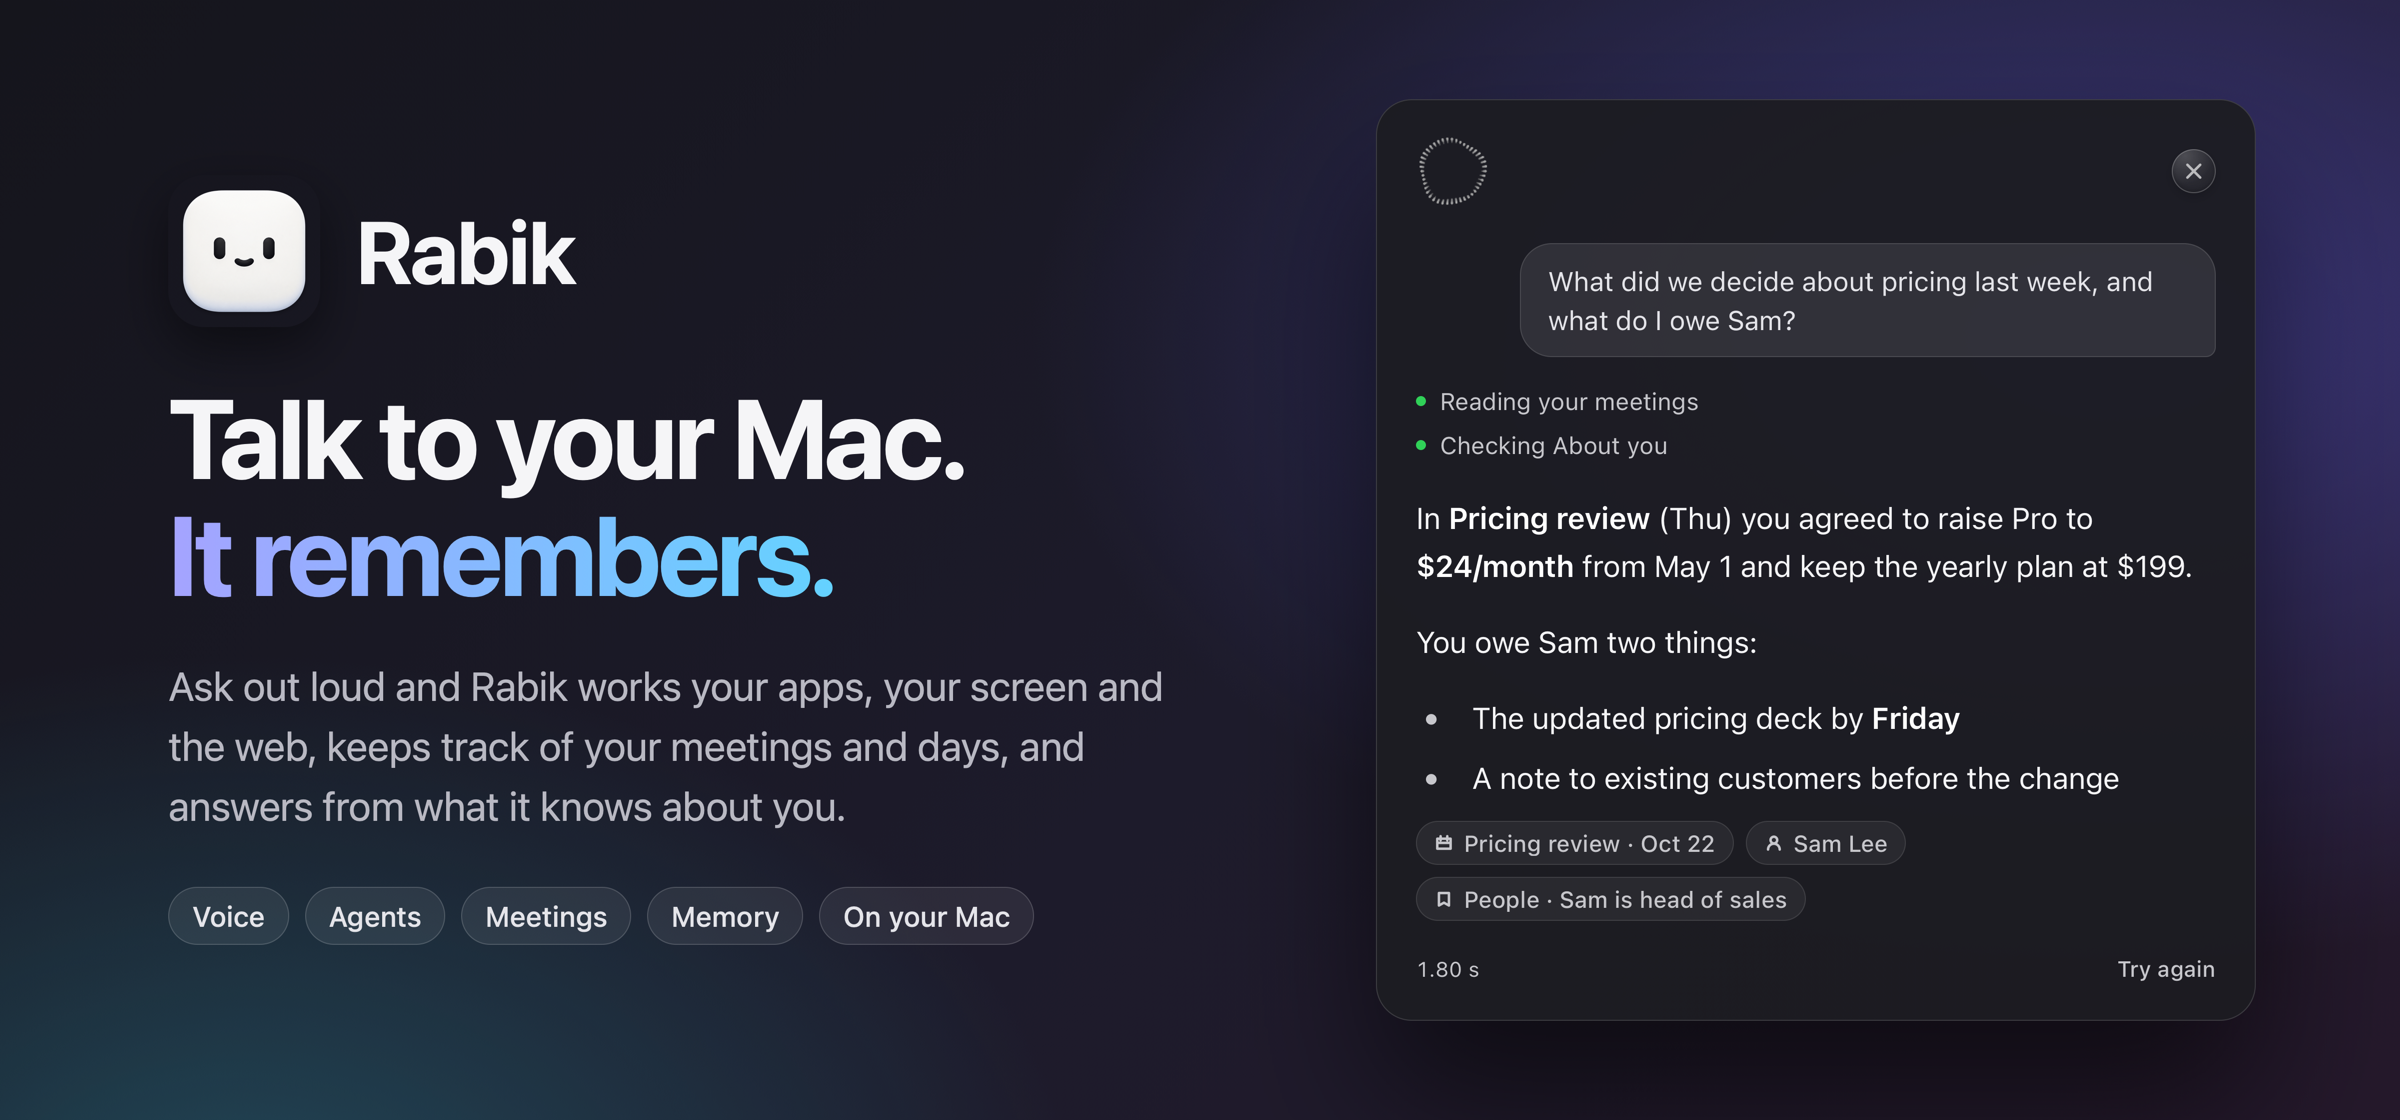
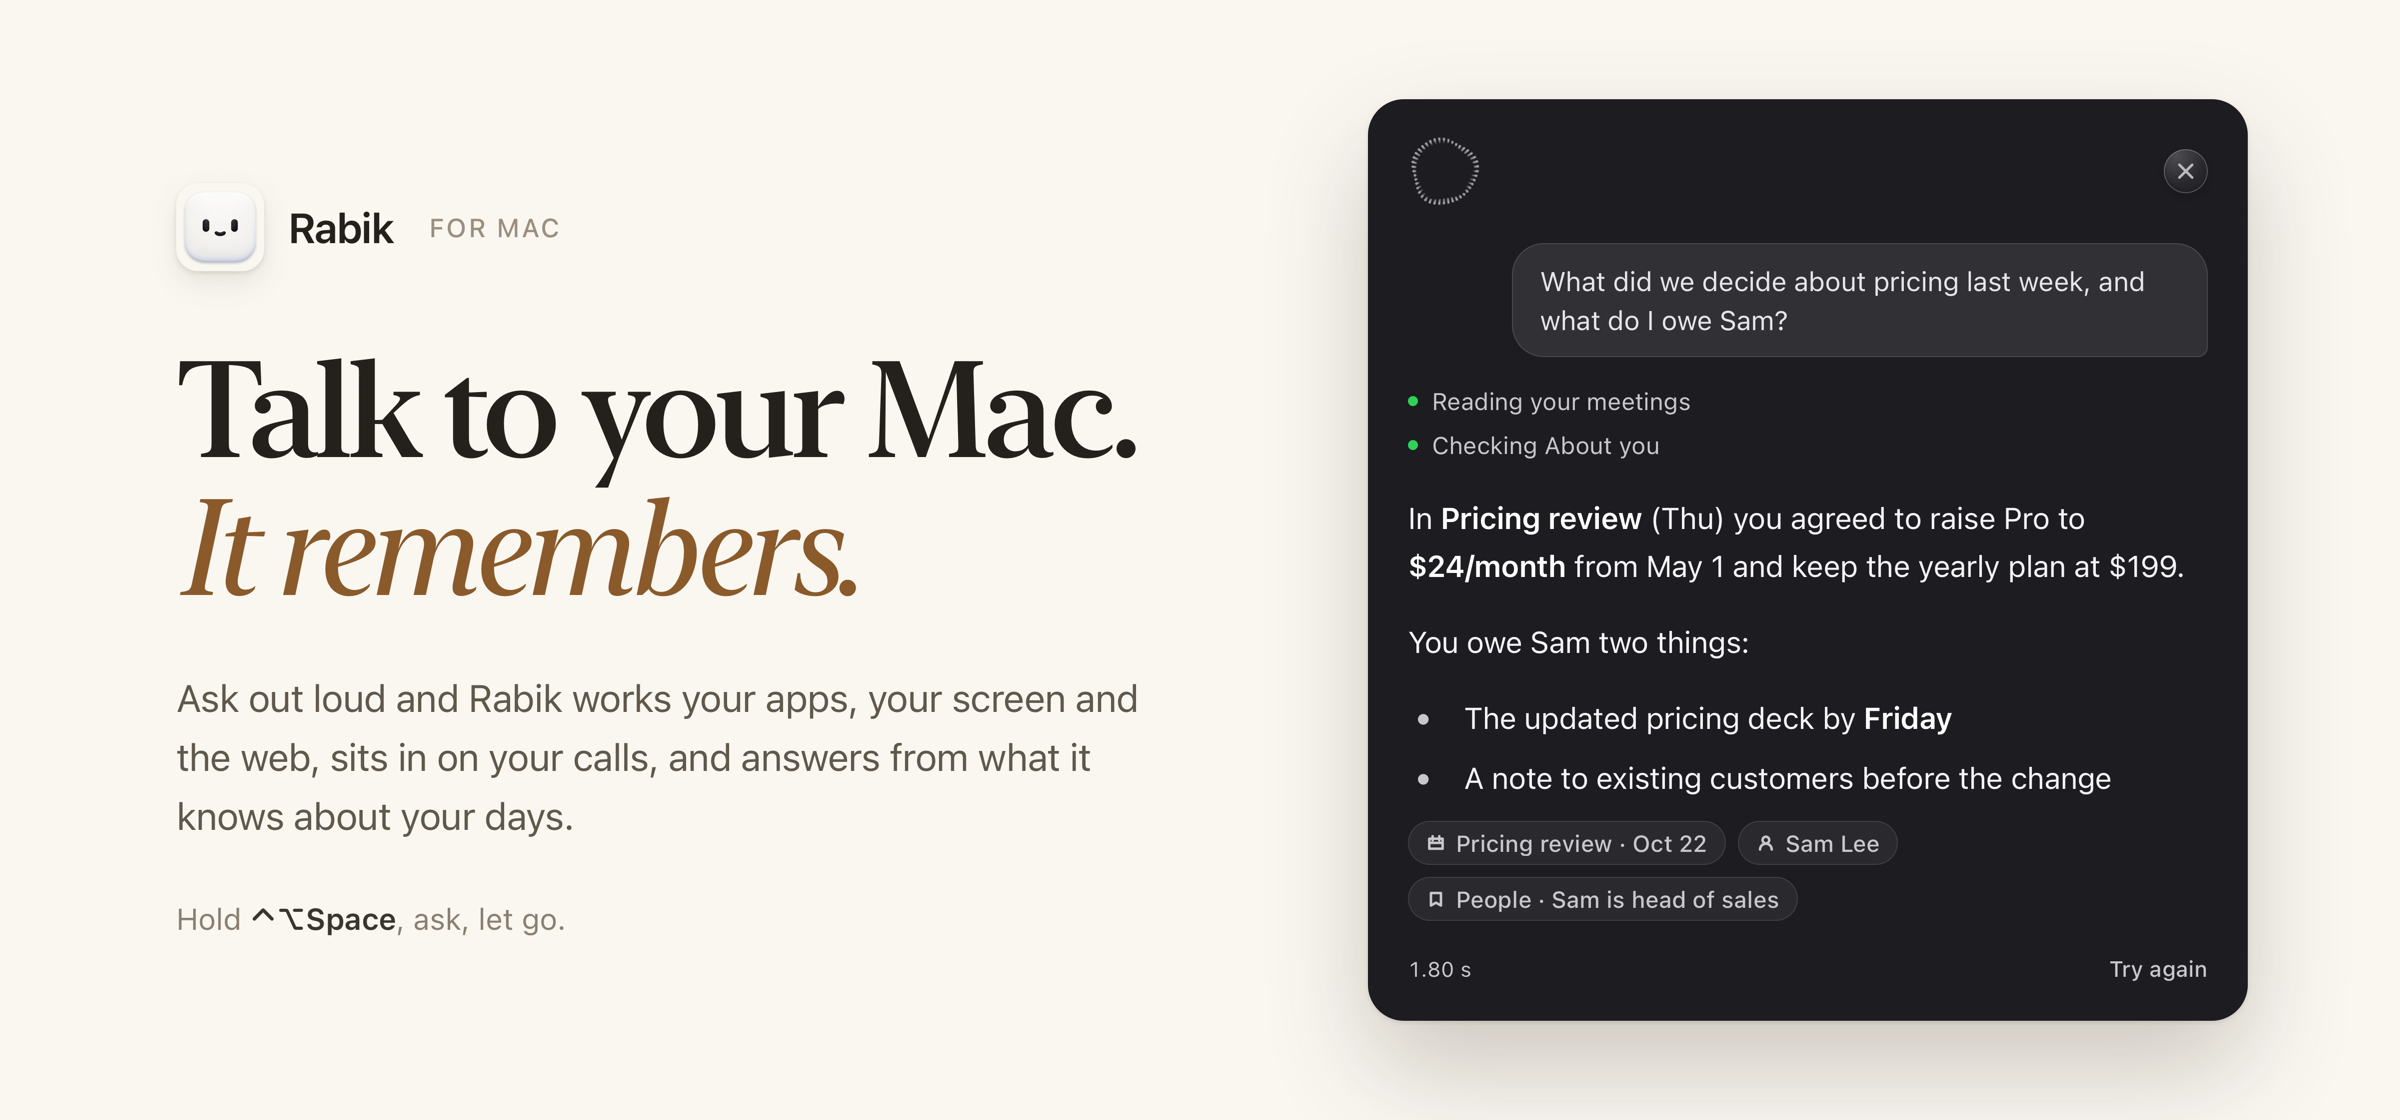
README images: warm paper instead of purple gradients
The hero is cream with Apple's New York serif headline and SF Pro text, and the screens sit on
the same flat cream with a soft warm shadow.

diff --git a/scripts/hero.html b/scripts/hero.html
@@ -1,30 +1,28 @@
 <!doctype html>
 <html lang="en"><meta charset="utf-8"><title>Rabik hero</title>
-<!-- The README's top image: scripts/readme-shots.py fills in the icon and a real box answer, then draws this page. -->
+<!-- The README's top image: scripts/readme-shots.py fills in the icon and a real box answer, then draws this page.
+     Warm paper, Apple's New York serif for the headline and SF Pro for the rest; no gradients. -->
 <style>
   html, body { margin: 0; width: 1200px; height: 560px; overflow: hidden; }
-  body { font-family: -apple-system, system-ui, sans-serif; color: #f5f5f7; display: grid; grid-template-columns: 1fr 470px; align-items: center; gap: 40px;
-         padding: 0 72px 0 84px; box-sizing: border-box;
-         background: radial-gradient(900px 520px at 88% 30%, rgba(94, 92, 230, .42), transparent 60%),
-                     radial-gradient(700px 480px at 10% 110%, rgba(48, 176, 199, .30), transparent 60%),
-                     linear-gradient(135deg, #15151c 0%, #1d1b2b 55%, #24182a 100%); }
-  .brand { display: flex; align-items: center; gap: 18px; margin-bottom: 26px; }
-  .brand img { width: 76px; height: 76px; border-radius: 18px; box-shadow: 0 10px 30px rgba(0, 0, 0, .45); }
-  .brand b { font-size: 44px; font-weight: 700; letter-spacing: -.02em; }
-  h1 { margin: 0; font-size: 56px; line-height: 1.04; font-weight: 700; letter-spacing: -.03em; }
-  h1 span { background: linear-gradient(90deg, #a5a3ff, #64d2ff); -webkit-background-clip: text; color: transparent; }
-  p { margin: 22px 0 0; font-size: 20px; line-height: 1.5; color: #b9b9c3; max-width: 520px; }
-  .tags { display: flex; gap: 8px; margin-top: 26px; flex-wrap: wrap; }
-  .tags i { font-style: normal; font-size: 14px; font-weight: 500; color: #e5e5ea; padding: 6px 12px; border-radius: 999px;
-            background: rgba(255, 255, 255, .07); box-shadow: inset 0 0 0 .5px rgba(255, 255, 255, .16); }
-  .box { justify-self: end; width: 440px; border-radius: 18px; background: rgba(28, 28, 33, .94); overflow: hidden;
-         box-shadow: 0 40px 80px rgba(0, 0, 0, .55), inset 0 0 0 .5px rgba(255, 255, 255, .14); }
+  body { font-family: -apple-system, "SF Pro Text", system-ui, sans-serif; color: #24211c; background: #faf7f1;
+         display: grid; grid-template-columns: 1fr 450px; align-items: center; gap: 56px; padding: 0 76px 0 88px; box-sizing: border-box;
+         -webkit-font-smoothing: antialiased; }
+  .eyebrow { display: flex; align-items: center; gap: 12px; margin-bottom: 34px; }
+  .eyebrow img { width: 44px; height: 44px; border-radius: 11px; box-shadow: 0 1px 2px rgba(60, 40, 20, .12), 0 6px 16px rgba(60, 40, 20, .10); }
+  .eyebrow b { font-size: 21px; font-weight: 600; letter-spacing: -.01em; }
+  .eyebrow span { font-size: 13px; font-weight: 500; letter-spacing: .08em; text-transform: uppercase; color: #9a8f7f; margin-left: 6px; }
+  h1 { margin: 0; font-family: "New York", ui-serif, Georgia, serif; font-weight: 500; font-size: 68px; line-height: 1.02; letter-spacing: -.025em; }
+  h1 em { font-style: italic; font-weight: 400; color: #8a5a2b; }
+  p { margin: 26px 0 0; font-size: 19px; line-height: 1.55; color: #5f584d; max-width: 500px; }
+  .how { margin-top: 28px; font-size: 15px; color: #8a8072; letter-spacing: .01em; } .how b { color: #3a352d; font-weight: 600; }
+  .box { justify-self: end; width: 440px; border-radius: 18px; background: #1c1c21; overflow: hidden;
+         box-shadow: 0 1px 2px rgba(40, 28, 14, .10), 0 24px 60px rgba(40, 28, 14, .22); }
   .box img { display: block; width: 100%; }
 </style>
 <div>
-  <div class="brand"><img src="{{ICON}}" alt=""><b>Rabik</b></div>
-  <h1>Talk to your Mac.<br><span>It remembers.</span></h1>
-  <p>Ask out loud and Rabik works your apps, your screen and the web, keeps track of your meetings and days, and answers from what it knows about you.</p>
-  <div class="tags"><i>Voice</i><i>Agents</i><i>Meetings</i><i>Memory</i><i>On your Mac</i></div>
+  <div class="eyebrow"><img src="{{ICON}}" alt=""><b>Rabik</b><span>for Mac</span></div>
+  <h1>Talk to your Mac.<br><em>It remembers.</em></h1>
+  <p>Ask out loud and Rabik works your apps, your screen and the web, sits in on your calls, and answers from what it knows about your days.</p>
+  <div class="how">Hold <b>⌃⌥Space</b>, ask, let go.</div>
 </div>
 <div class="box"><img src="{{BOX}}" alt=""></div>

diff --git a/scripts/shot.swift b/scripts/shot.swift
@@ -31,16 +31,14 @@ func frame(_ shot: NSImage, size: NSSize) {
                                samplesPerPixel: 4, hasAlpha: true, isPlanar: false, colorSpaceName: .deviceRGB, bytesPerRow: 0, bitsPerPixel: 0)!
     rep.size = canvas
     NSGraphicsContext.saveGraphicsState(); NSGraphicsContext.current = NSGraphicsContext(bitmapImageRep: rep)
-    let back = dark ? [NSColor(calibratedRed: 0.16, green: 0.17, blue: 0.24, alpha: 1), NSColor(calibratedRed: 0.32, green: 0.24, blue: 0.36, alpha: 1)]
-                    : [NSColor(calibratedRed: 0.86, green: 0.89, blue: 0.97, alpha: 1), NSColor(calibratedRed: 0.97, green: 0.90, blue: 0.92, alpha: 1)]
-    NSGradient(colors: back)!.draw(in: NSRect(origin: .zero, size: canvas), angle: -35)
+    NSColor(srgbRed: 0.98, green: 0.969, blue: 0.945, alpha: 1).setFill(); NSRect(origin: .zero, size: canvas).fill()   // warm paper, as the README hero
     let box = NSRect(x: pad, y: pad, width: size.width, height: size.height), path = NSBezierPath(roundedRect: box, xRadius: radius, yRadius: radius)
-    let shadow = NSShadow(); shadow.shadowBlurRadius = 34; shadow.shadowOffset = NSSize(width: 0, height: -12); shadow.shadowColor = NSColor.black.withAlphaComponent(0.35)
+    let shadow = NSShadow(); shadow.shadowBlurRadius = 30; shadow.shadowOffset = NSSize(width: 0, height: -10); shadow.shadowColor = NSColor(srgbRed: 0.16, green: 0.11, blue: 0.05, alpha: 0.2)
     NSGraphicsContext.saveGraphicsState(); shadow.set()
     (panel == "window" ? (dark ? NSColor(white: 0.12, alpha: 1) : NSColor(white: 0.96, alpha: 1)) : NSColor(calibratedRed: 0.11, green: 0.11, blue: 0.13, alpha: 0.96)).setFill(); path.fill()
     NSGraphicsContext.restoreGraphicsState()
     NSGraphicsContext.saveGraphicsState(); path.addClip(); shot.draw(in: box); NSGraphicsContext.restoreGraphicsState()
-    NSColor.white.withAlphaComponent(panel == "window" && !dark ? 0 : 0.12).setStroke(); path.lineWidth = 1; path.stroke()
+    (panel == "window" && !dark ? NSColor(srgbRed: 0.89, green: 0.86, blue: 0.82, alpha: 1) : NSColor.white.withAlphaComponent(0.12)).setStroke(); path.lineWidth = 1; path.stroke()
     NSGraphicsContext.restoreGraphicsState()
     try! rep.representation(using: .png, properties: [:])!.write(to: URL(fileURLWithPath: out))
 }
